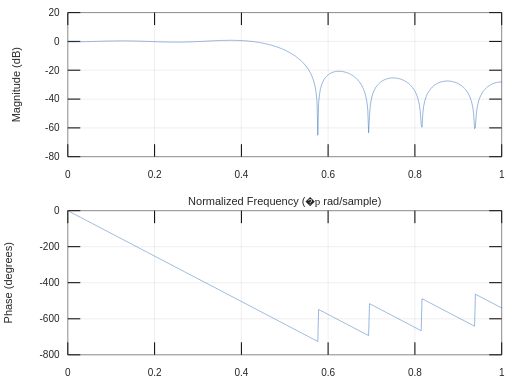
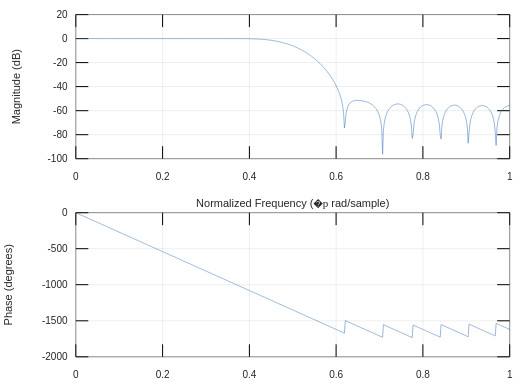
Finalizada p5

diff --git a/Practicas/P5/memoria.tex b/Practicas/P5/memoria.tex
@@ -132,14 +132,13 @@ Como podemos ver, es un filtro paso baja puesto que la respuesta en frecuencia e
 	\item \textbf{¿Qué modificaciones introduciría en el diseño del filtro para conseguir una atenuación de -50 dB para el primer lóbulo de la banda de atenuación con la mayor pendiente posible en la banda de transición?}
 \end{itemize}
 
-Para que se produzca una atenuación en los lóbulos de la banda es necesario que disminuya el número de coeficientes del filtro, de forma que la caída se hace menos abrupta pero más profunda es decir, la pendiente es menor pero la atenuación es mayor. Si queremos que llegue a una atenuación de -50 dB utilizamos 15 coeficientes para el filtro.\\
+Para que se produzca una atenuación de -50 dB debemos cambiar la forma de truncar. Para ello, podemos cambiar el tipo de ventana a alguna que sepamos que lleva la atenuación a 50 dB, como es por ejemplo la ventana hamming.\\
 
 Para ello solo debemos cambiar una línea en el código:
 
 \begin{lstlisting}[frame=single]
-% Se definen los parametros
-% Numero de coeficientes del filtro
-M=15
+% Cambiamos la ventana de truncado
+window = hamming(M)
 \end{lstlisting}
 
 La respuesta en frecuencia con \texttt{M=15} es la siguiente:
@@ -149,7 +148,7 @@ La respuesta en frecuencia con \texttt{M=15} es la siguiente:
 	\includegraphics[scale=0.5]{img/2.png}
 \end{figure}
 
-Como podemos ver, la pendiente del primer lóbulo es menor que con más coeficientes, pero sin embargo ha superado los -50 dB de atenuación que ibamos buscando.
+Como podemos ver, la atenuación es de 50 dB. Esto se debe a la forma de la ventana hamming, que es uno de los tipos de ventana más usado porque ofrece buenos resultados, como se puede observar en la imagen, donde hemos conseguido una atenuación mucho mayor que con la ventana rectangular.
 
 \newpage
 
@@ -165,9 +164,9 @@ Vamos a comenzar con la comparativa de las distintas \texttt{M}. En la última c
 \begin{tabular}{|c|c|c|c|c|}
 \hline
 M  & Anchura & Atenuación & Respuesta en frecuencia & Sección con el código \\ \hline
-15 & \textasciitilde{} Hz            & \textasciitilde{}42 dB                       & \includegraphics[scale=0.3]{img/3.png} &  \color{deepred}\nameref{code2}\color{black} \\ \hline
-31 & \textasciitilde{} Hz            & \textasciitilde{}60 dB                       & \includegraphics[scale=0.3]{img/4.png} & \color{deepred}\nameref{code3}\color{black} \\ \hline
-63 & \textasciitilde{} Hz            & \textasciitilde{}40 dB                       & \includegraphics[scale=0.3]{img/5.png} & \color{deepred}\nameref{code4}\color{black} \\ \hline
+15 & \textasciitilde{}100 Hz            & \textasciitilde{}20 dB                       & \includegraphics[scale=0.3]{img/3.png} &  \color{deepred}\nameref{code2}\color{black} \\ \hline
+31 & \textasciitilde{}500 Hz            & \textasciitilde{}20 dB                       & \includegraphics[scale=0.3]{img/4.png} & \color{deepred}\nameref{code3}\color{black} \\ \hline
+63 & \textasciitilde{}1000 Hz            & \textasciitilde{}20 dB                       & \includegraphics[scale=0.3]{img/5.png} & \color{deepred}\nameref{code4}\color{black} \\ \hline
 \end{tabular}
 \caption{Tabla comparativa de M}
 \end{table}
@@ -182,14 +181,14 @@ Ahora vamos a llevar a cabo la comparativa entre los distintos tipos de ventanas
 \begin{tabular}{|c|c|c|c|c|}
 \hline
 Ventana  & Anchura & Atenuación & Respuesta en frecuencia & Sección con el código \\ \hline
-Rectangular & \textasciitilde{} Hz            & \textasciitilde{}60 dB                       & \includegraphics[scale=0.25]{img/6.png} &  \color{deepred}\nameref{code5}\color{black} \\ \hline
-Bartlett & \textasciitilde{} Hz            & \textasciitilde{}25 dB                       & \includegraphics[scale=0.25]{img/7.png} & \color{deepred}\nameref{code6}\color{black} \\ \hline
-Hamming & \textasciitilde{} Hz            & \textasciitilde{}100 dB                       & \includegraphics[scale=0.25]{img/8.png} & \color{deepred}\nameref{code7}\color{black} \\ \hline
+Rectangular & \textasciitilde{}600 Hz            & \textasciitilde{}20 dB                       & \includegraphics[scale=0.25]{img/6.png} &  \color{deepred}\nameref{code5}\color{black} \\ \hline
+Bartlett & \textasciitilde{}700 Hz            & \textasciitilde{}25 dB                       & \includegraphics[scale=0.25]{img/7.png} & \color{deepred}\nameref{code6}\color{black} \\ \hline
+Hamming & \textasciitilde{}10 Hz            & \textasciitilde{}50 dB                       & \includegraphics[scale=0.25]{img/8.png} & \color{deepred}\nameref{code7}\color{black} \\ \hline
 \end{tabular}
 \caption{Tabla comparativa de ventanas}
 \end{table}
 
-La diferencia entre los tres tipos de ventanas es evidente. Como podemos ver, la ventana Hamming es la que tiene una mayor atenuación, llegando hasta -100 dB en el primer lóbulo. Por el contrario, la ventana Bartlett solo alcanza los 25 dB; además, con esta última ventana, no se ven lóbulos propiamente dichos, se ven pequeñas ondas a lo largo de la gráfica con la respuesta en frecuencia.
+La diferencia entre los tres tipos de ventanas es evidente. Como podemos ver, la ventana Hamming es la que tiene una menor atenuación, llegando a 10 dB en el primer lóbulo. Por el contrario, la ventana Bartlett solo alcanza los 700 dB; además, con esta última ventana, no se ven lóbulos propiamente dichos, se ven pequeñas ondas a lo largo de la gráfica con la respuesta en frecuencia.
 
 \newpage
 
